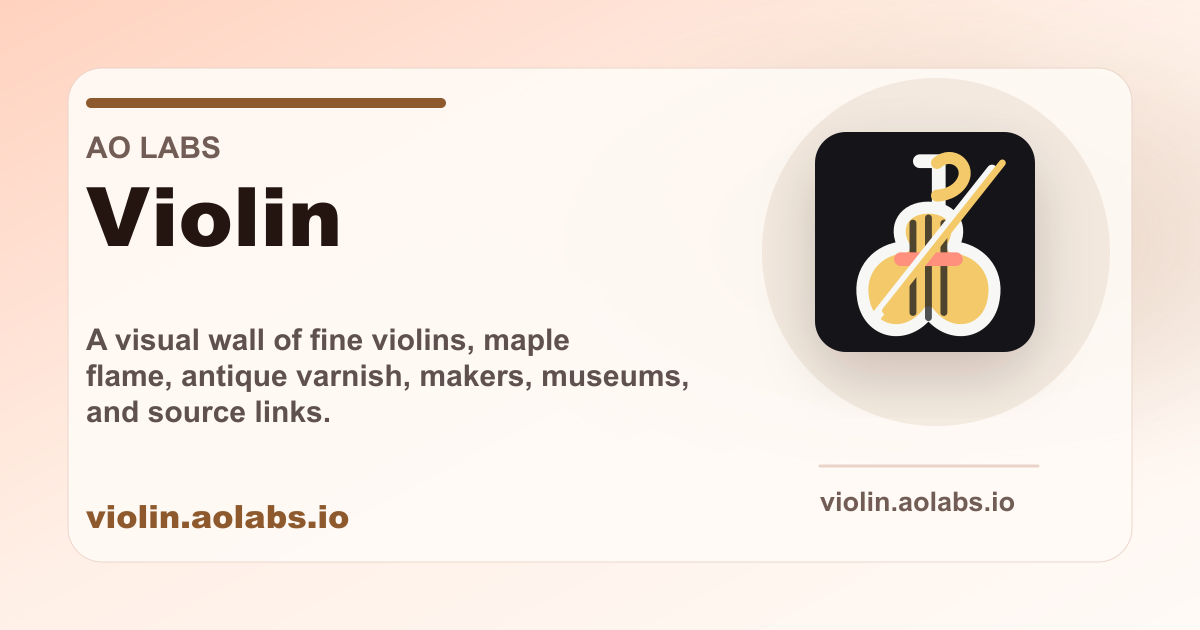
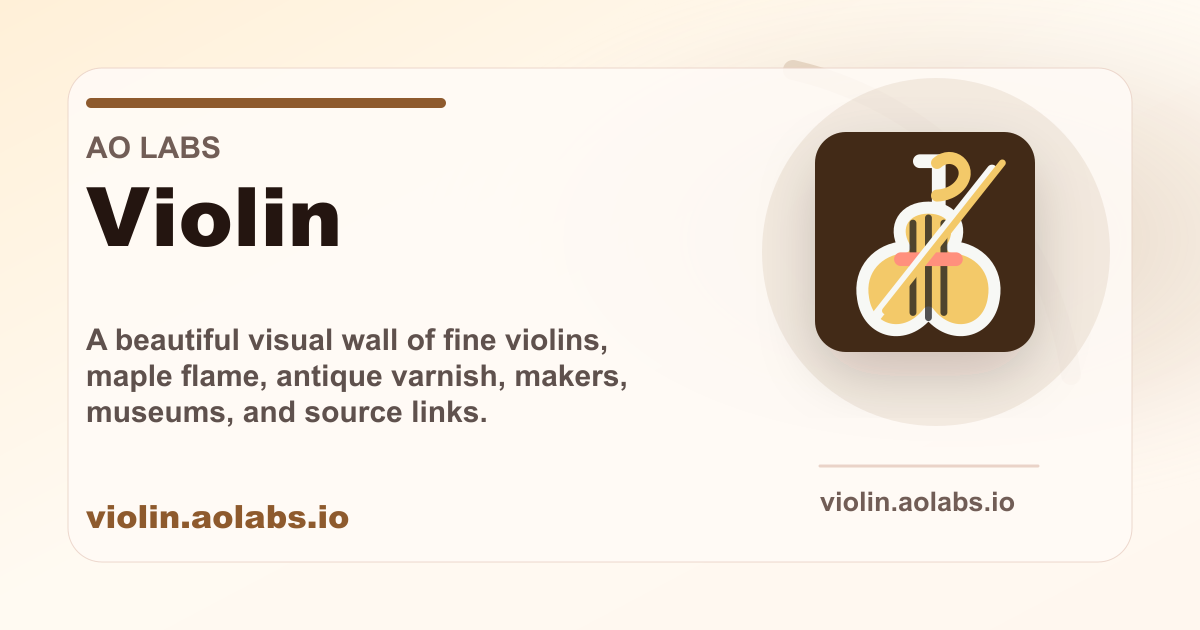
Refine social preview themes

Changed region(s): [[0.0617, 0.5127, 0.5858, 0.6937], [0.6783, 0.2111, 0.8633, 0.573], [0.0, 0.0, 0.2775, 0.2714]]

diff --git a/public/index.html b/public/index.html
@@ -5,12 +5,12 @@
     <meta name="viewport" content="width=device-width, initial-scale=1">
     <meta name="theme-color" content="#16100d">
     <title>Violin</title>
-    <meta name="description" content="A visual wall of fine violins, maple flame, antique varnish, makers, museums, and source links.">
+    <meta name="description" content="A beautiful visual wall of fine violins, maple flame, antique varnish, makers, museums, and source links.">
     <link rel="canonical" href="https://violin.aolabs.io/">
     <meta property="og:type" content="website">
     <meta property="og:site_name" content="AO Labs">
     <meta property="og:title" content="Violin">
-    <meta property="og:description" content="A visual wall of fine violins, maple flame, antique varnish, makers, museums, and source links.">
+    <meta property="og:description" content="A beautiful visual wall of fine violins, maple flame, antique varnish, makers, museums, and source links.">
     <meta property="og:url" content="https://violin.aolabs.io/">
     <meta property="og:image" content="https://violin.aolabs.io/og-image-20260506.png">
     <meta property="og:image:secure_url" content="https://violin.aolabs.io/og-image-20260506.png">
@@ -20,7 +20,7 @@
     <meta property="og:image:alt" content="Violin by AO Labs preview card.">
     <meta name="twitter:card" content="summary_large_image">
     <meta name="twitter:title" content="Violin">
-    <meta name="twitter:description" content="A visual wall of fine violins, maple flame, antique varnish, makers, museums, and source links.">
+    <meta name="twitter:description" content="A beautiful visual wall of fine violins, maple flame, antique varnish, makers, museums, and source links.">
     <meta name="twitter:image" content="https://violin.aolabs.io/og-image-20260506.png">
     <meta name="twitter:image:alt" content="Violin by AO Labs preview card.">
     <link rel="icon" href="/icon.svg?v=20260506-icons" type="image/svg+xml">
